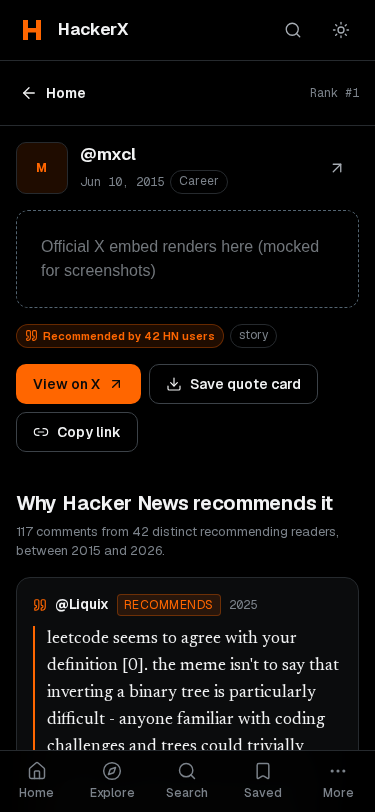
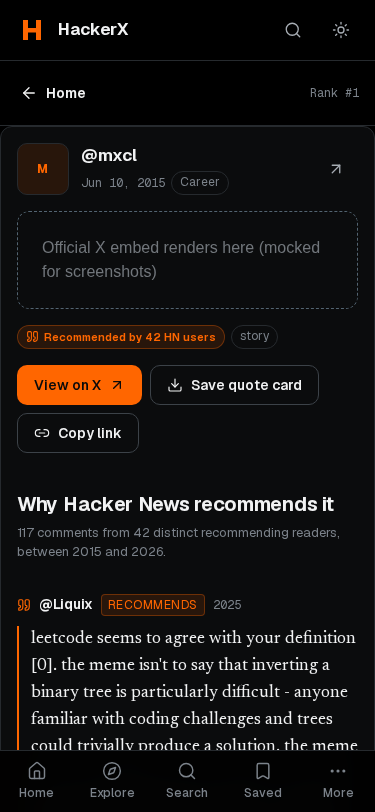
Detail page is one card; labels out of mono
- tweet/[id]: header, embed, badge, actions and the full discussion now
  sit inside a single card at one width; discussion quotes separated by
  hairlines instead of nested boxes
- Today's pick recommendation label, zen kicker and about sign-off use
  Geist; mono stays on numbers, dates, ranks and counts
- Refreshed PR screenshots

diff --git a/app/globals.css b/app/globals.css
@@ -1391,6 +1391,18 @@ code {
   padding: 20px 24px 40px;
 }
 
+/* The detail article is one card; hover state stays put. */
+.detail.card:hover {
+  border-color: var(--border);
+  background: var(--surface);
+}
+
+@media (max-width: 767px) {
+  .detail {
+    padding: 16px 16px 28px;
+  }
+}
+
 .detail-author {
   display: flex;
   align-items: center;
@@ -1534,15 +1546,15 @@ code {
   list-style: none;
   display: flex;
   flex-direction: column;
-  gap: 12px;
   margin-block-start: 16px;
 }
 
+.quote-list > li + li {
+  border-block-start: 1px solid var(--border);
+}
+
 .quote-item {
-  padding: 16px;
-  border: 1px solid var(--border);
-  border-radius: 14px;
-  background: var(--surface);
+  padding: 16px 0;
   scroll-margin-block-start: 96px;
 }
 
@@ -1675,7 +1687,7 @@ code {
 }
 
 .today-pick-count {
-  font-family: var(--font-mono);
+  font-family: var(--font-sans);
   font-size: 0.6875rem;
   color: var(--text-3);
   font-variant-numeric: tabular-nums;
@@ -1931,7 +1943,8 @@ code {
   display: inline-flex;
   align-items: center;
   gap: 6px;
-  font-family: var(--font-mono);
+  font-family: var(--font-sans);
+  font-weight: 600;
   font-size: 0.6875rem;
   letter-spacing: 0.08em;
   text-transform: uppercase;
@@ -2164,7 +2177,7 @@ code {
 
 .prose-signoff {
   margin-block-start: 20px;
-  font-family: var(--font-mono);
+  font-family: var(--font-sans);
   font-size: 0.6875rem;
   color: var(--text-3);
 }

diff --git a/app/components/zen-view.tsx b/app/components/zen-view.tsx
@@ -40,9 +40,9 @@ export function ZenView({ cards }: { cards: Card[] }) {
         <Avatar name={card.author.handle} size={32} />
         <div>
           <p>@{card.author.handle}</p>
-          <p className="meta-mono">
-            {recommendationBadge(card.recommenders)}
-            {card.years.length > 0 ? ` · since ${card.years[0]}` : ""}
+          <p className="zen-author-meta">
+            <span className="today-pick-count">{recommendationBadge(card.recommenders)}</span>
+            {card.years.length > 0 ? <span className="meta-mono"> · since {card.years[0]}</span> : null}
           </p>
         </div>
       </div>

diff --git a/app/(site)/tweet/[id]/page.tsx b/app/(site)/tweet/[id]/page.tsx
@@ -45,7 +45,7 @@ export default async function TweetPage({ params }: { params: Promise<{ id: stri
         <span className="meta-mono">Rank #{card.rank}</span>
       </div>
 
-      <article className="detail">
+      <article className="detail card">
         <header className="detail-author">
           <Avatar name={card.author.handle} size={52} />
           <div className="detail-author-copy">
